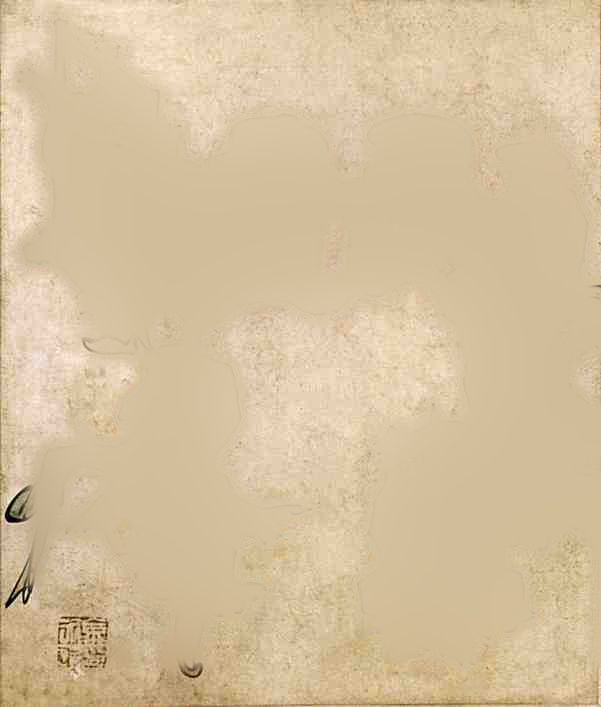
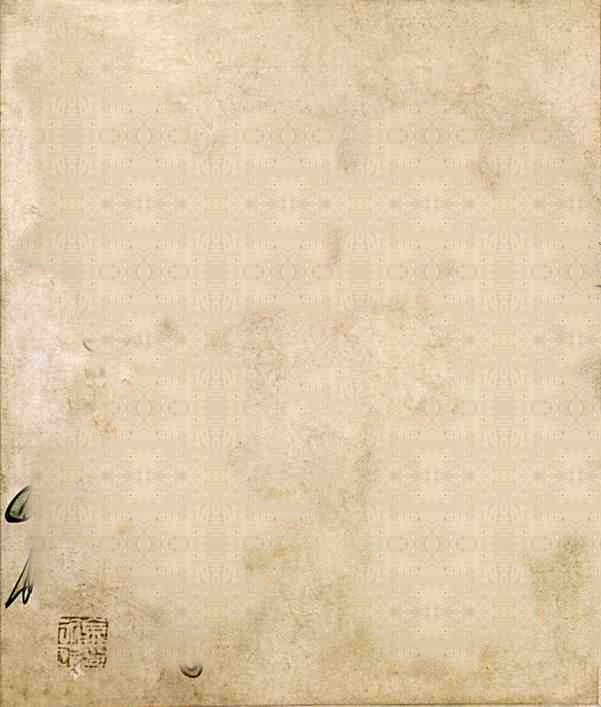
누끼 자리 종이 질감 채움, 배경 블러 제거

Changed region(s): [[0.0899, 0.0934, 1.0, 0.9335], [0.0599, 0.1867, 0.0899, 0.2178]]

diff --git a/src/components/minhwa/ArtStage.vue b/src/components/minhwa/ArtStage.vue
@@ -50,7 +50,7 @@ const washStyle = computed(() => ({
 // 원화 배경 — 너무 날아가지 않게 또렷함을 유지한 채 뒤로 물러난다
 const backdropStyle = computed(() => ({
   transform: `scale(${(1.32 + dive.value * 0.18).toFixed(3)}) translate3d(${(-props.mx * 8).toFixed(1)}px, ${(-props.my * 6).toFixed(1)}px, 0)`,
-  opacity: (0.78 - dive.value * 0.1).toFixed(3),
+  opacity: (0.92 - dive.value * 0.08).toFixed(3),
 }))
 
 // 누끼 인물 — 깊이별 시차 + 빠져들 때 분리
@@ -383,7 +383,8 @@ const snowFlakes = Array.from({ length: 24 }, (_, i) => ({
   width: 100%;
   height: 100%;
   object-fit: cover;
-  filter: blur(12px) saturate(0.95);
+  /* 누끼 자리는 이미 종이로 메워져 있으니 흐림 없이 또렷하게 */
+  filter: saturate(0.97);
 }
 .cut-wrap {
   position: absolute;
